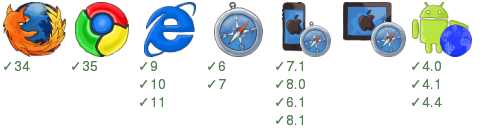
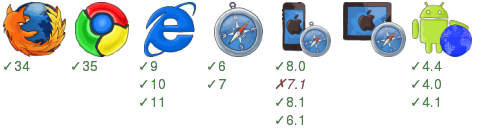
Auto push new examples from zordius/fluxex@ab85a4c573bf630d23f2ea8976ca594d5b381d71

diff --git a/00hello/badge.html b/00hello/badge.html
@@ -28,16 +28,16 @@ div{vertical-align:top;overflow:hidden;display:inline-block;width:92px;padding:4
 <p>&#x2713;7</p>
 </div><div>
 <img src="/home/travis/build/zordius/fluxex/examples/00hello/node_modules/badge-render/browser-badge/static/iphone.png" />
-<p>&#x2713;7.1</p>
 <p>&#x2713;8.0</p>
-<p>&#x2713;6.1</p>
+<i>&#x2717;7.1</i>
 <p>&#x2713;8.1</p>
+<p>&#x2713;6.1</p>
 </div><div>
 <img src="/home/travis/build/zordius/fluxex/examples/00hello/node_modules/badge-render/browser-badge/static/ipad.png" />
 </div><div>
 <img src="/home/travis/build/zordius/fluxex/examples/00hello/node_modules/badge-render/browser-badge/static/android-browser.png" />
+<p>&#x2713;4.4</p>
 <p>&#x2713;4.0</p>
 <p>&#x2713;4.1</p>
-<p>&#x2713;4.4</p>
 </div></body>
 </html>
